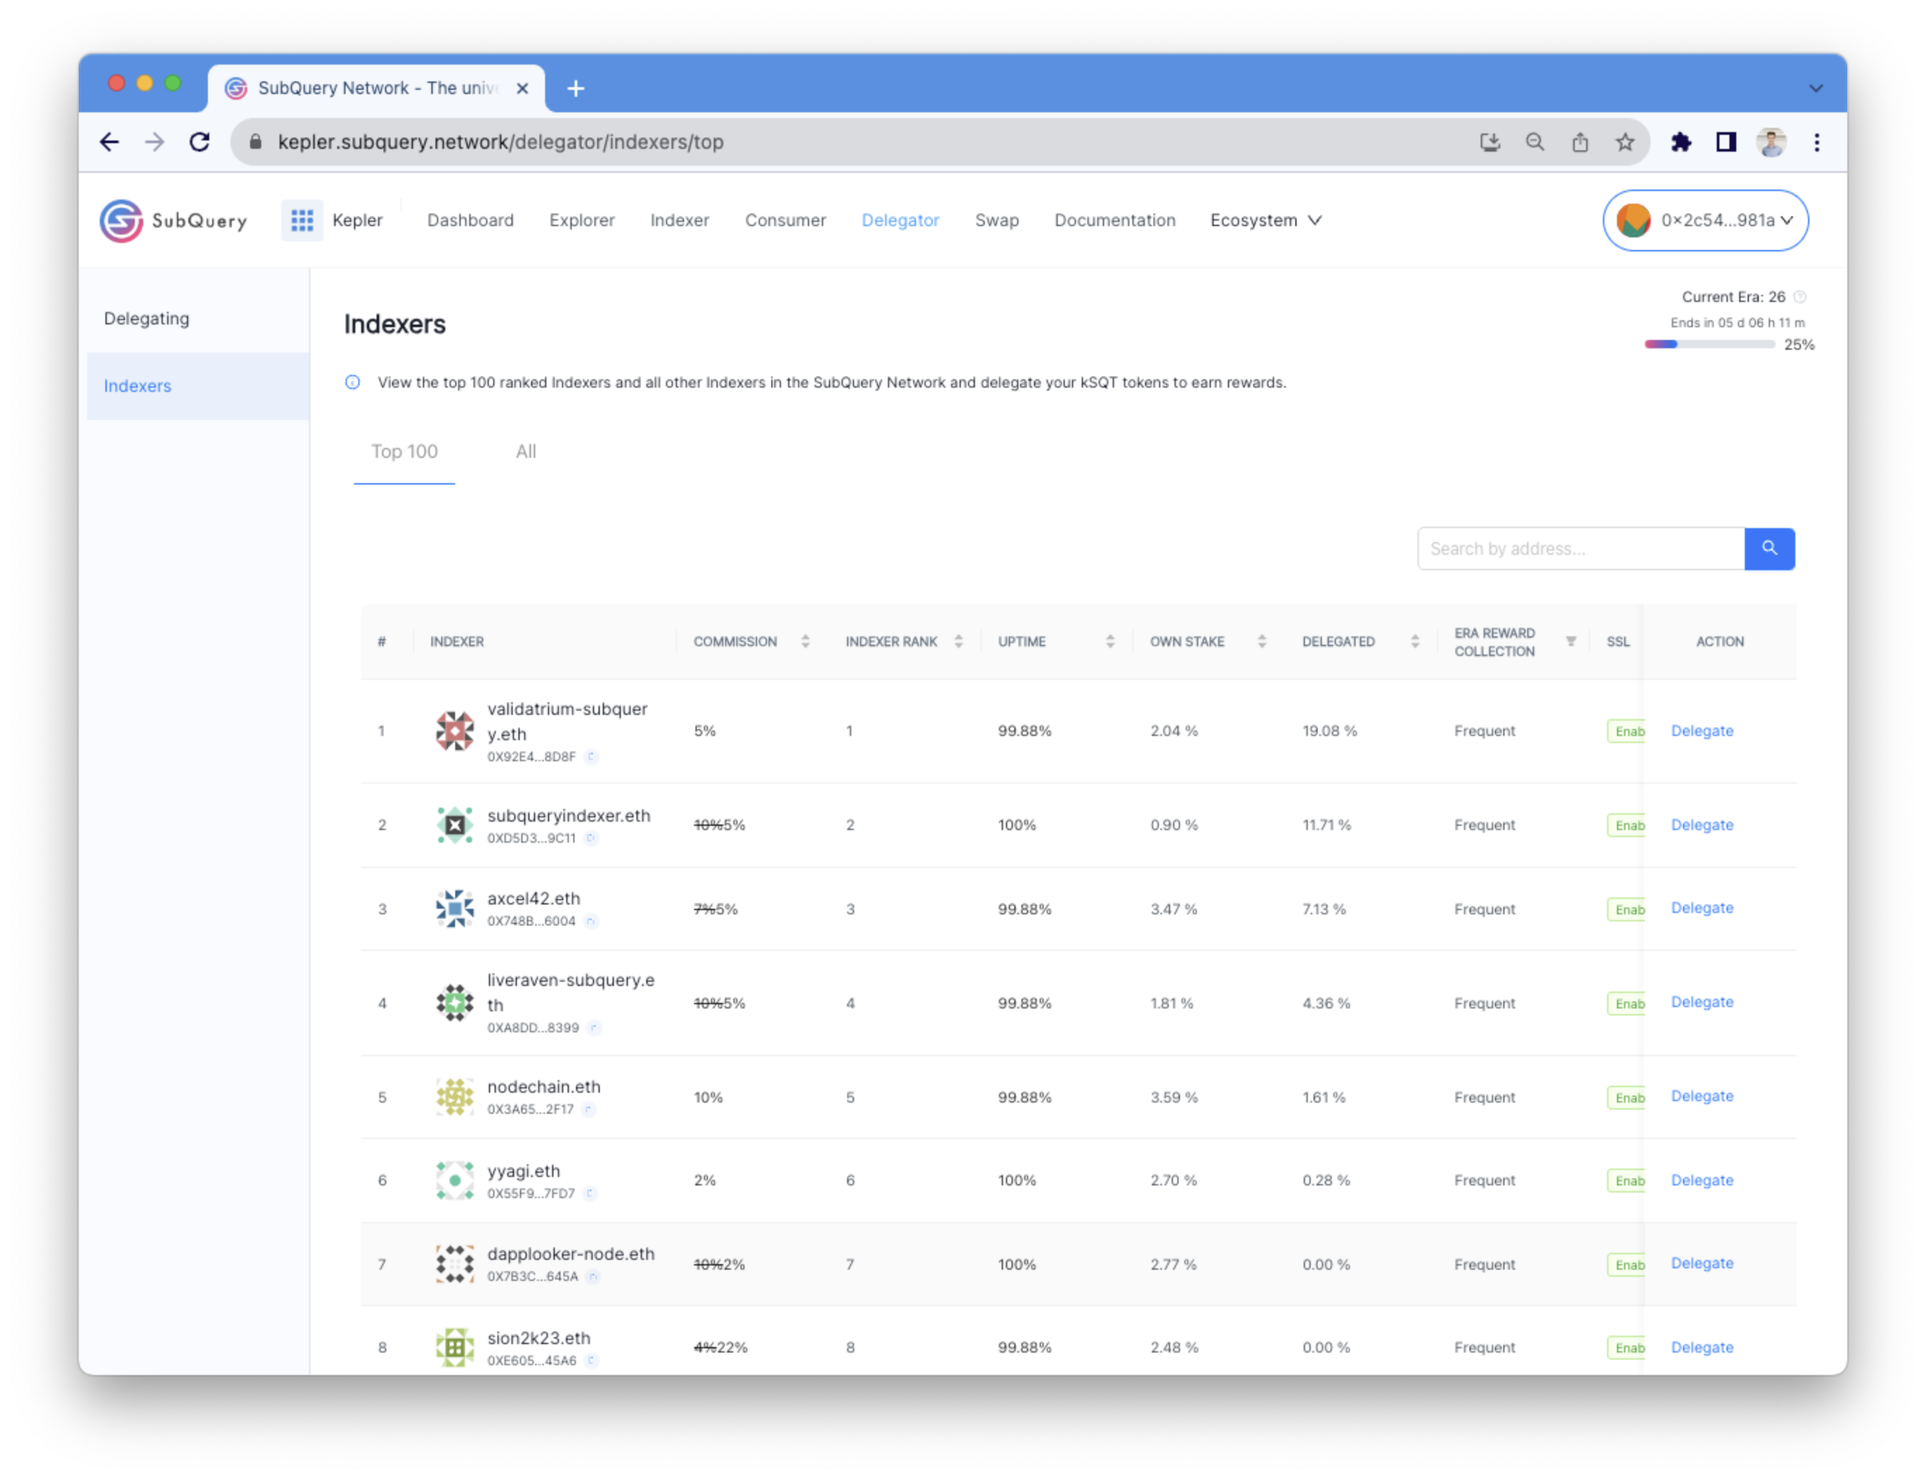
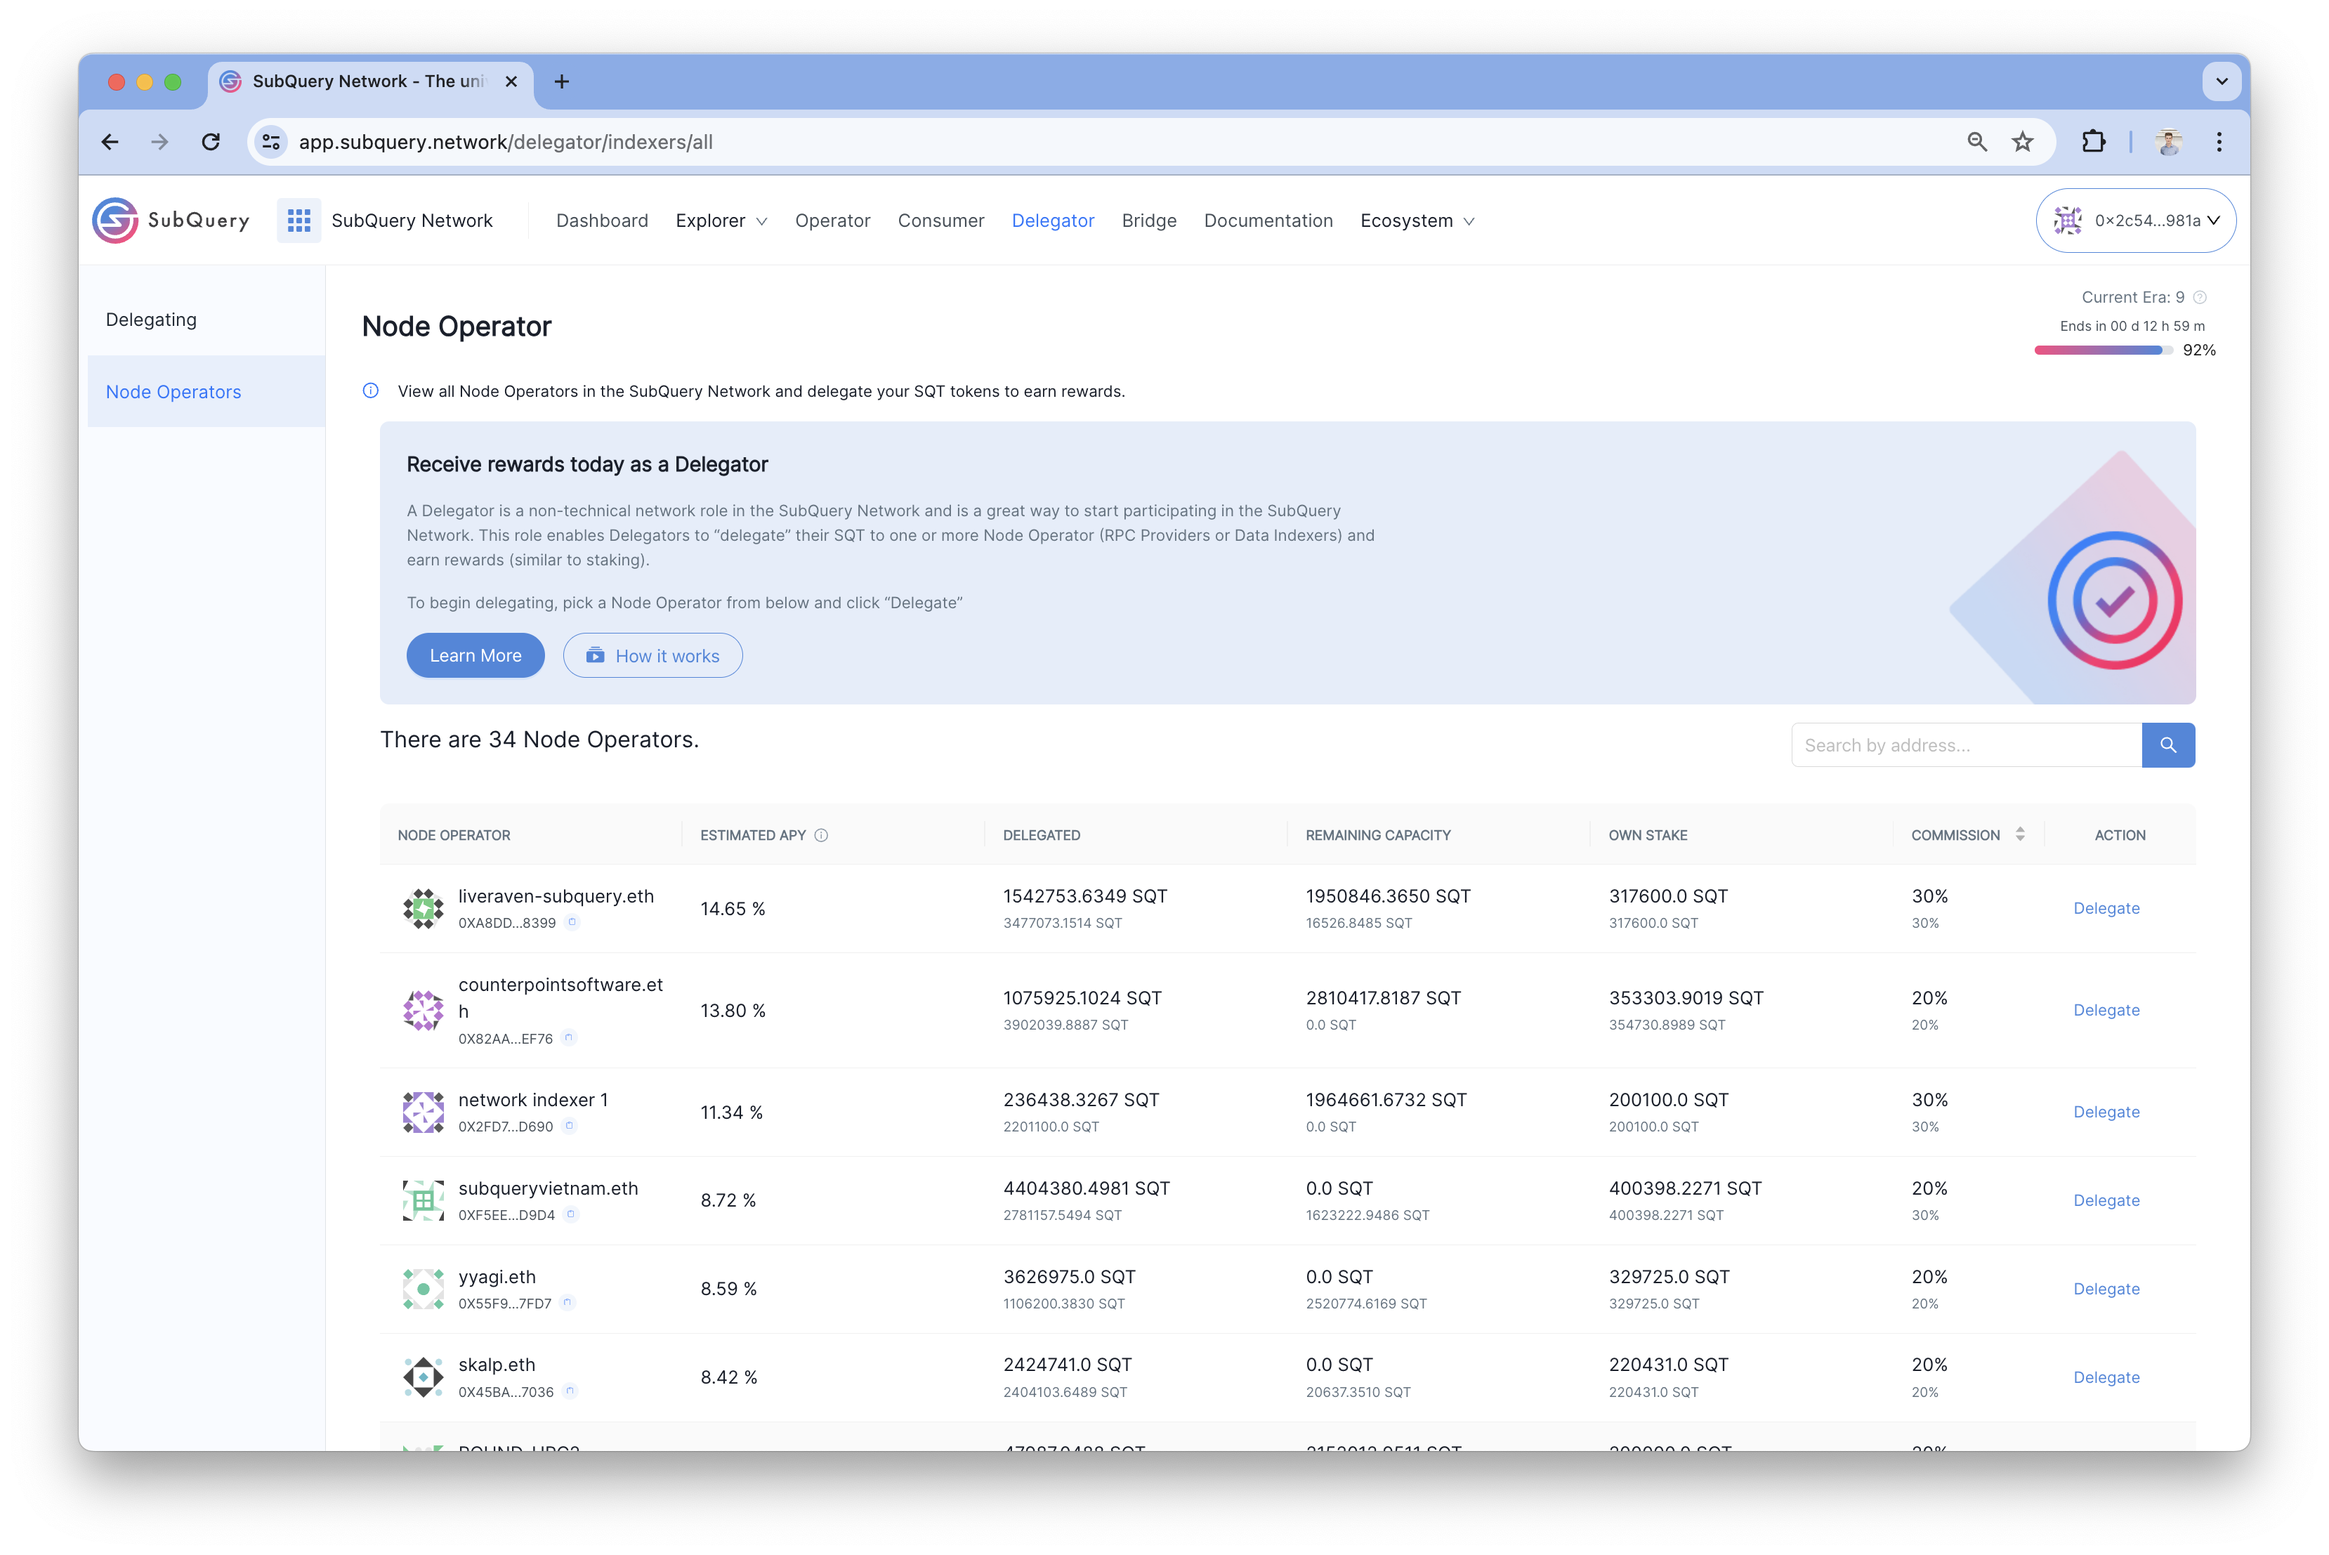
Improved delegation guide

diff --git a/docs/subquery_network/delegators/introduction.md b/docs/subquery_network/delegators/introduction.md
@@ -2,19 +2,25 @@
 
 ## What is a Delegator?
 
-A Delegator is a non-technical network role in the SubQuery Network and is a great way to start participating in the SubQuery Network. This role enables Delegators to “delegate” their SQT to one or more Node Operator (RPC Providers or Data Indexers) and earn rewards (similar to staking).
+Delegating SQT is an easy way to stake your SQT and receive APY on your tokens. It only takes a few minutes and requires no technical skill.
 
-Without Delegators, Node Operators would likely earn fewer rewards because they will have less SQT to stake. Therefore, Node Operators compete to attract Delegators by offering a competitive share of a Node Operator's rewards.
+The Delegator role enables Delegators to “delegate” their SQT to one or more Node Operator (RPC Providers or Data Indexers) and earn rewards (similar to staking).
 
-## Requirements to be a Delegator
+Without Delegators, Node Operators may receive fewer rewards because they will have less SQT to stake. Therefore, Node Operators compete to attract Delegators by offering a competitive share of their rewards.
 
-One of the best things about being a Delegator is that you don’t need any DevOps, coding, or technical experience. Basic understanding of the SubQuery Network is all that is required to become a Delegator.
+## How to delegate to a Node Operator
+
+<figure class="video_container">
+  <iframe src="https://www.youtube.com/embed/7GKWO5wEdtc" frameborder="0" allowfullscreen="true"></iframe>
+</figure>
+
+Once you have some [SQT](../token/token.md#where-is-sqt-traded), you can delegate using our app. [Read more about how you can delegate here](./delegating.md).
 
 ## Benefits of being a Delegator
 
 There are several benefits of becoming a Delegator:
 
-- It's easy to get started and requires little technical knowledge, Delegators only need to acquire SQT tokens and then [learn the process of delegating the tokens to their preferred Node Operator(s)](./delegating.md).
+- It's easy to get started and requires little technical knowledge, Delegators only need to [acquire SQT tokens](../token/token.md#where-is-sqt-traded) and then [learn the process of delegating the tokens to their preferred Node Operator(s)](./delegating.md).
 - Delegating contribute to the network by putting their SQT to work by delegating their SQT to Node Operators. In return, Delegators are [rewarded with SQT](./rewards.md) (a share of the reward pool).
 - There is no minimum required delegation to be a Delegator. This means that anyone can join no matter how much SQT one has.
 

diff --git a/docs/subquery_network/delegators/delegating.md b/docs/subquery_network/delegators/delegating.md
@@ -6,15 +6,24 @@
   <iframe src="https://www.youtube.com/embed/7GKWO5wEdtc" frameborder="0" allowfullscreen="true"></iframe>
 </figure>
 
-After you have [selected what Node Operator to delegate to](./rewards.md#how-to-select-what-node-operators-to-delegate-to), navigate to `Delegator` -> `Node Operators`(on the left sidebar). Then select `Delegate` in the last column next to your desired Node Operator.
+To become a Delegator, you first need to decide what Node Operator to delegate to? We've made this easy for you by listing Node Operators in a page specifically designed to help delegators make this decision.
+
+Head to the Network app, and view [Node Operators under the Delegators Section](https://app.subquery.network/delegator/indexers/all).
+
+![Delegate Node Operator List](/assets/img/network/delegate_indexers.png)
+
+There are a few key things to help you decide:
+
+- **Estimated APY**: This is the estimated APY rewarded to Delegators of this Node Operator from the last Era. It's a good indication of past performance of the Node Operator, but as conditions change between Eras, this estimate is not a guarantee for future Eras.
+- **Commission**: Node Operators set a Node Operator’s Commission Rate (NOCR) which is the percentage Node Operators earn. Therefore, a lower NOCR will be more attractive for Delegators as a larger percentage of rewards is shared between Delegators. [Read more about this here](./rewards.md#how-to-select-what-node-operators-to-delegate-to).
+
+Once you decide what Node Operator to delegate to, you can click "Delegate" on your choosen Node Operator.
 
 ::: warning
 
 Ensure you have ether for gas fees. Ether needs to be on the Base network. More information can be found [here](../token/claim.html#how-to-obtain-ether-on-base)
 
 :::
-
-![Delegate Node Operator List](/assets/img/network/delegate_indexers.png)
 
 Select your source for the delegation (it can be your wallet, or from an existing delegation amount) and enter an amount. Click on `Delegate`. You will be asked to confirm your transaction with your wallet. Please wait for a while after confirming the transaction.
 

diff --git a/docs/subquery_network/delegators/rewards.md b/docs/subquery_network/delegators/rewards.md
@@ -30,7 +30,9 @@ Note that Delegators must have delegated their tokens for the entire [Era](../in
 
 Node Operators also have a maximum delegation capacity based on the size of the Node Operator's own stake, this ensures the Node Operator has sufficient skin in the game. The current multiple for delegation capacity can be found on our [network parameters](../parameters.md) page.
 
-For Data Indexers, we've made it easier for you to see other data about all Data Indexers in our app. Navigate to `Delegator` > `Indexers` and view the [leaderboard](https://app.subquery.network/delegator/node_operators/indexers/top) which shows various scores and details that we think are important to you when deciding what Data Indexer to choose. The Data Indexers Score takes into account a Data Indexer’s uptime, slashing events, and other parameters.
+For Data Indexers, we've made it easier for you to see other data about all Data Indexers in our app. Navigate to `Delegator` > `Indexers` and view the [Node Operator List](https://app.subquery.network/delegator/node_operators/indexers/all) which shows various scores and details that we think are important to you when deciding what Data Indexer to choose. The Data Indexers Score takes into account a Data Indexer’s uptime, slashing events, and other parameters.
+
+![Delegate Node Operator List](/assets/img/network/delegate_indexers.png)
 
 ## Non-reward period
 
